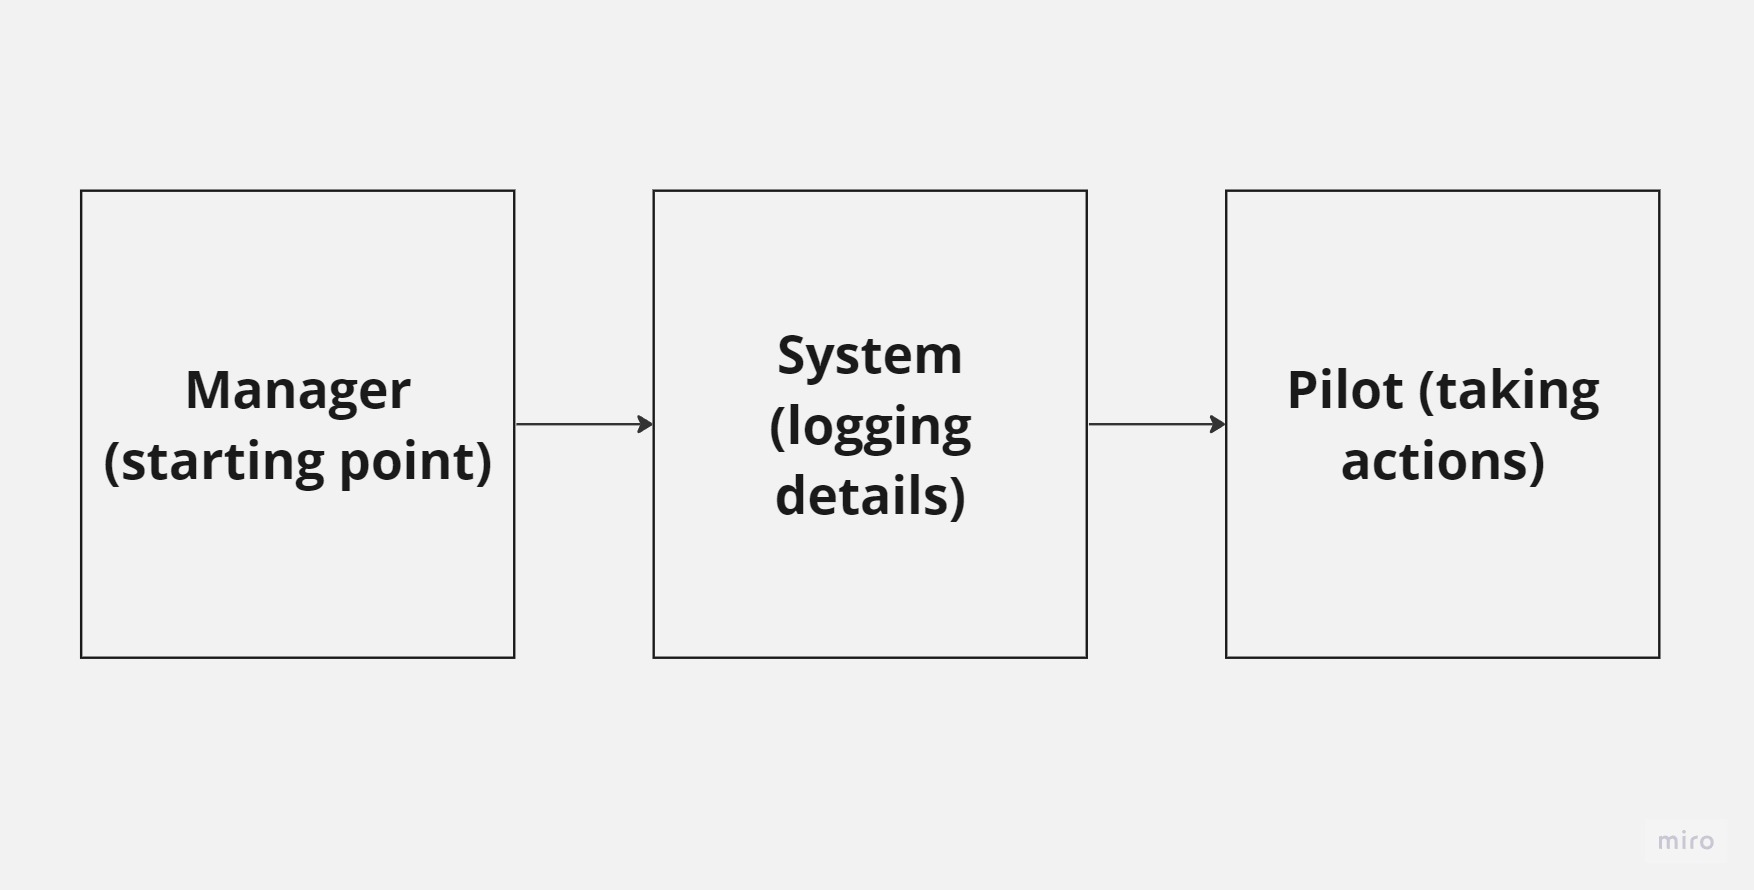
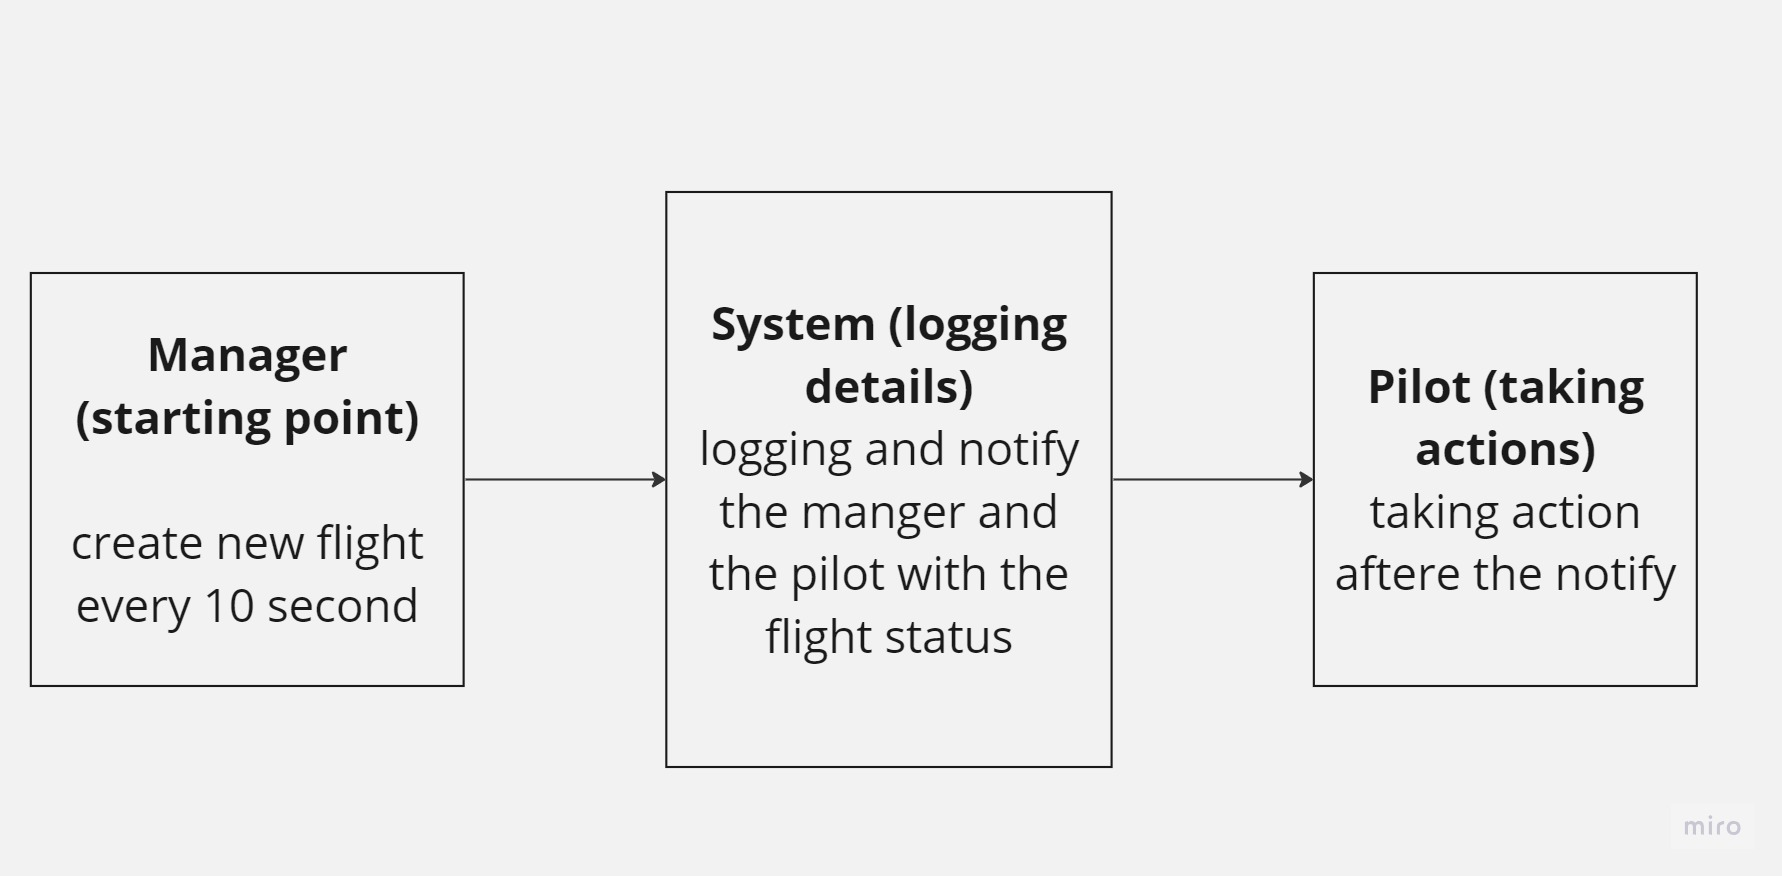
creating the event

diff --git a/src/pilot.js b/src/pilot.js
@@ -1,0 +1,27 @@
+const event = require("./event");
+
+event.on("took_off", handleTookOff);
+function handleTookOff(info) {
+  setTimeout(() => {
+    console.log(
+      `Pilot: flight with ID  \‘${info.Details.flightID}\’  took-off`
+    );
+    info.event = "took_off";
+    console.log("Flight", info);
+
+    event.emit("arrived", info);
+  }, 4000);
+}
+
+event.on("arrived", handleArrived);
+function handleArrived(info) {
+  setTimeout(() => {
+    console.log(
+      `Pilot: flight with ID  \‘${info.Details.flightID}\’  has arrived`
+    );
+    info.event = "arrived";
+    console.log("Flight", info);
+
+    event.emit("pilot_arrive", info.Details.pilot);
+  }, 3000);
+}

diff --git a/src/system.js b/src/system.js
@@ -1,0 +1,21 @@
+const event = require("./event");
+
+require("./pilot");
+
+require("./manger");
+
+event.on("newFlight", newFlightHandler);
+function newFlightHandler(info) {
+  console.log(
+    `Manager: new flight with ID \‘${info.Details.flightID}\’ have been scheduled`
+  );
+  console.log("Flight", info);
+  event.emit("took_off", info);
+}
+
+event.on("pilot_arrive", pilotArriveHandler);
+function pilotArriveHandler(politName) {
+  console.log(
+    `Manager: we’re greatly thankful for the amazing flight, ${politName}`
+  );
+}

diff --git a/src/manger.js b/src/manger.js
@@ -1,0 +1,17 @@
+//  airLine: 'Royal Jordanian Airlines',
+const event = require("./event");
+const { faker } = require("@faker-js/faker");
+const { v4: uuidv4 } = require("uuid");
+
+setInterval(() => {
+  event.emit("newFlight", {
+    event: "new-flight",
+    time: faker.datatype.datetime(),
+    Details: {
+      airLine: "Royal Jordanian Airlines",
+      flightID: uuidv4(),
+      pilot: faker.name.fullName(),
+      destination: faker.address.country(),
+    },
+  });
+}, 10000);

diff --git a/src/event.js b/src/event.js
@@ -1,0 +1,4 @@
+const Events = require("events");
+const eventsPool = new Events();
+
+module.exports = eventsPool;
